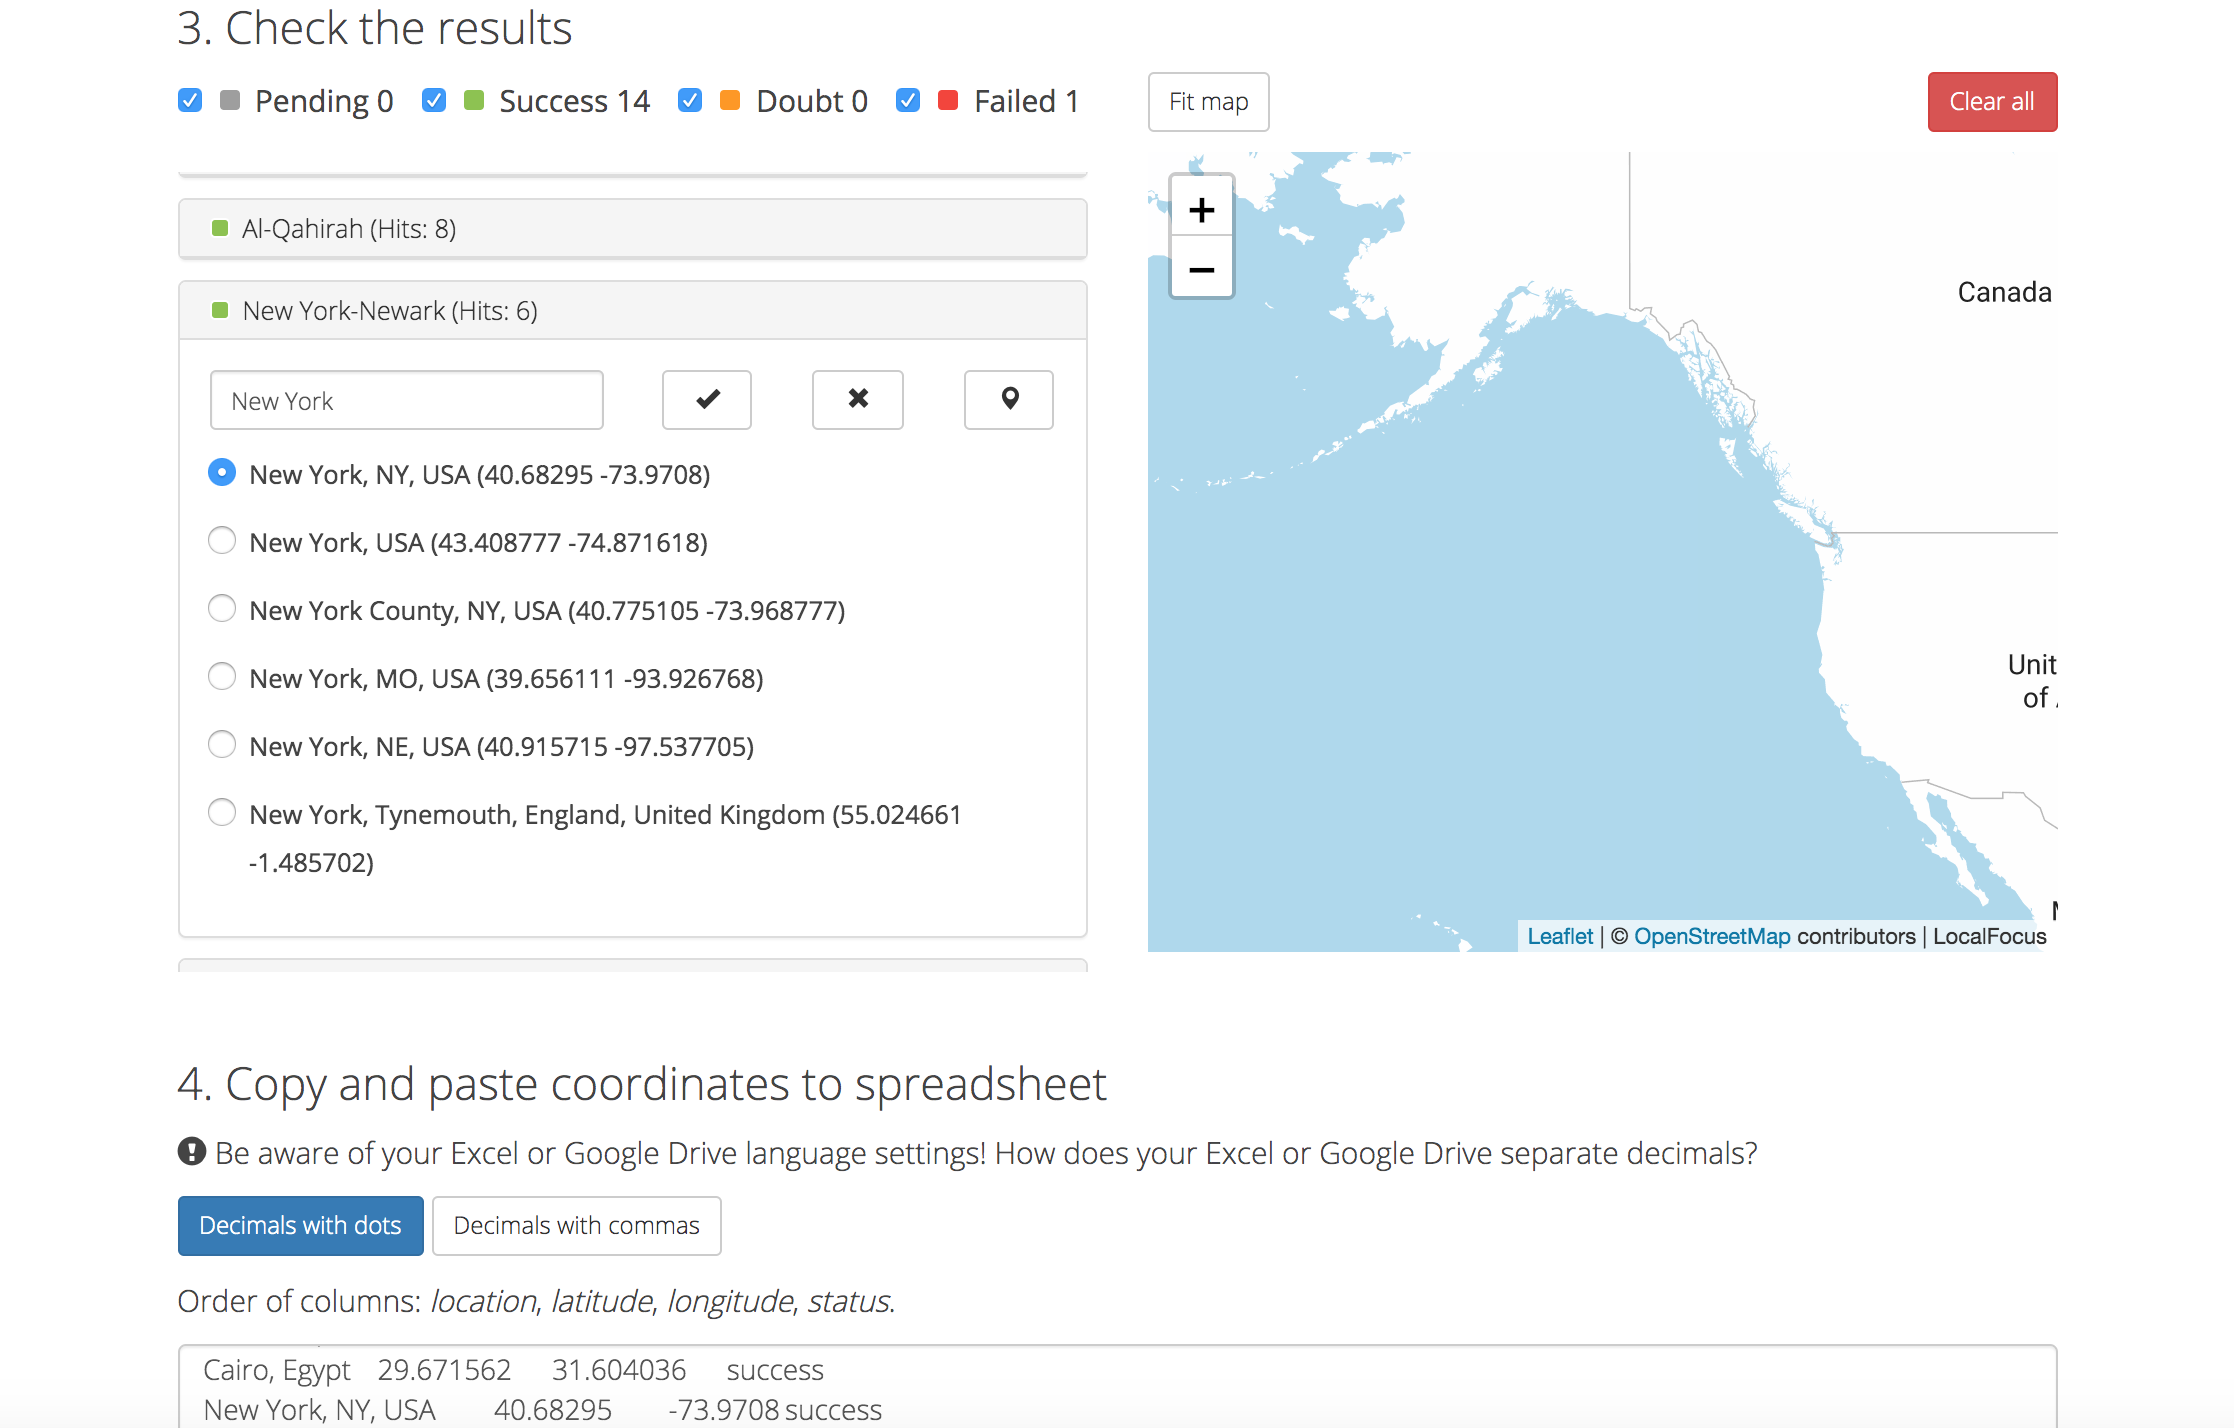
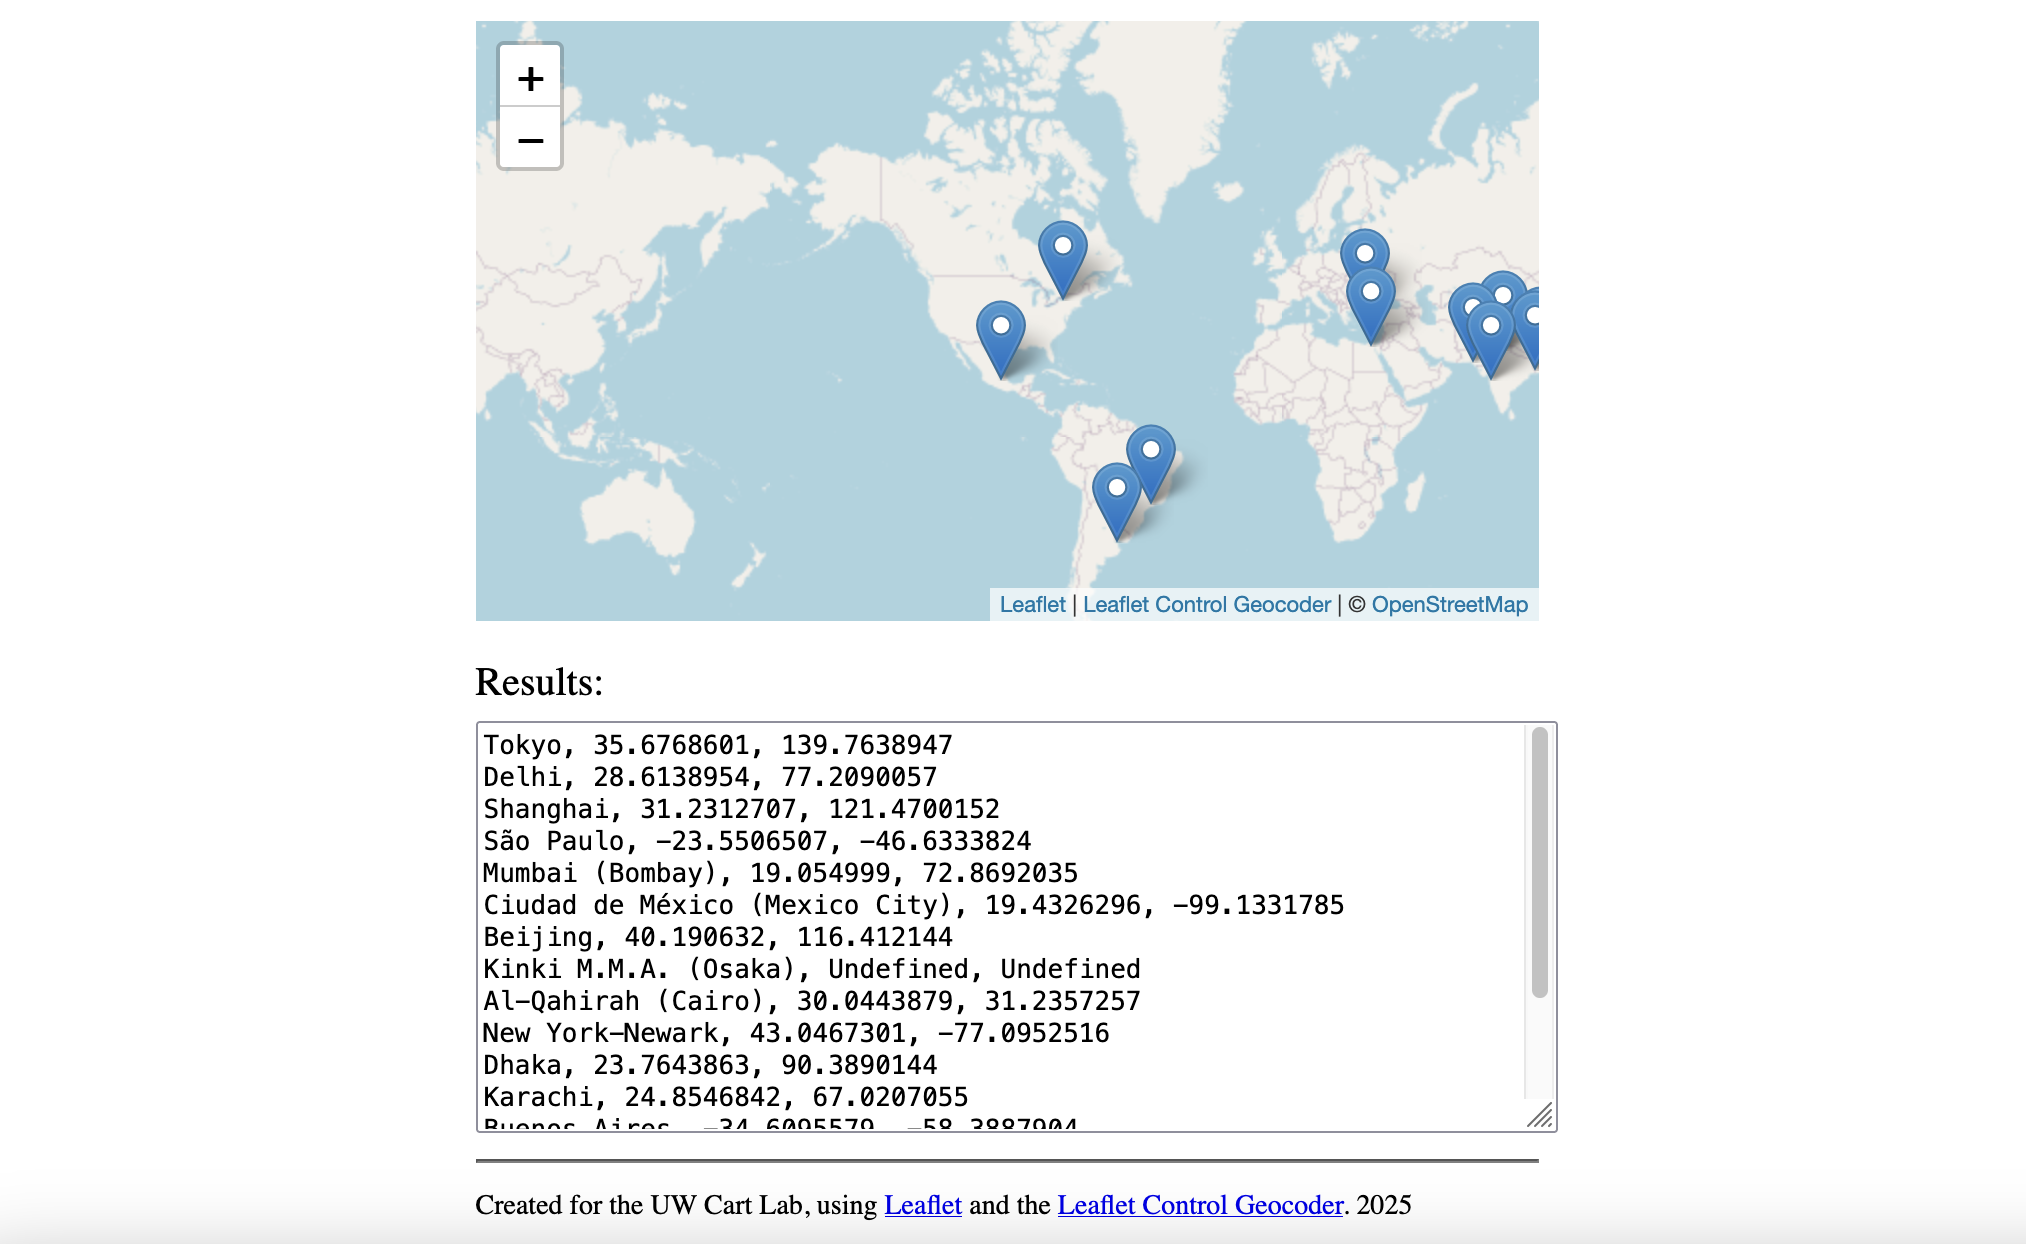
update chapter 3 geocoder

diff --git a/Chapter03/readme.md b/Chapter03/readme.md
@@ -48,13 +48,13 @@ If we want to tell a story about urban _growth_, we need more than one populatio
 
 ###### Figure 1.2: A CSV with multiple sequential, numeric attributes (Source: United Nations)
 
-The Figure 1.2 spreadsheet is just attributes and does not yet contain geospatial coordinates. Given the world scale of the map, each city should be represented as a point at its geographic center. You can use an internet search engine to find latitude and longitude values for each feature, but a faster and easier way to do so is to use a **_batch geocoder_**. Figure 1.3 uses the [Local Focus](https://geocode.localfocus.nl/) batch geocoder, one in a number of options available online. Leave "country" set to Worldwide, and simply copy the first column of your spreadsheet and paste it into the input box. Hit "Add to Geocoder" and see your results below.
+The Figure 1.2 spreadsheet is just attributes and does not yet contain geospatial coordinates. Given the world scale of the map, each city should be represented as a point at its geographic center. You can use an internet search engine to find latitude and longitude values for each feature, but a faster and easier way to do so is to use a **_geocoder_**. Figure 1.3 uses the [Simple Geocoder](https://uwcartlab.github.io/Simple-Geocoder/) tool developed by the UW Cart Lab, one in a number of options available online. Simply copy the first column of your spreadsheet and paste it into the input box. Hit "Geocode" and see your results below.
 
 ![figure3.1.3.png](img/figure3.1.3.png)
 
-###### Figure 1.3: The Local Focus Geocoder: https://geocode.localfocus.nl/
+###### Figure 1.3: The Simple Geocoder Tool with the first column of _MegaCities.csv_ copied into the input box.
 
-The Local Focus geocoder attempts to disambiguate all text strings into geographic coordinates. Some names may produce multiple coordinates, with Local Focus allowing you to select the correct location. You also can flag incorrectly geocoded coordinates using the "X" button and manually add the coordinates to your CSV later based on an internet search. Notice that the interactive map displaying the results is built with Leaflet, the Javascript library we will start learning next chapter! Importantly, set your text results to "Decimals with dots", copy the final results, and paste them into a spreadsheet.
+The Simple Geocoder tool attempts to disambiguate all text strings into geographic coordinates. Some names may not produce real coordinates, and will return _undefined_ coordinates. For these values, you will need to manually add the coordinates to your CSV later based on an internet search. Notice that the interactive map displaying the results is built with Leaflet, the Javascript library we will start learning next chapter! Copy the final results, and paste them into a spreadsheet.
 
 ![figure3.1.4.png](img/figure3.1.4.png)
 
